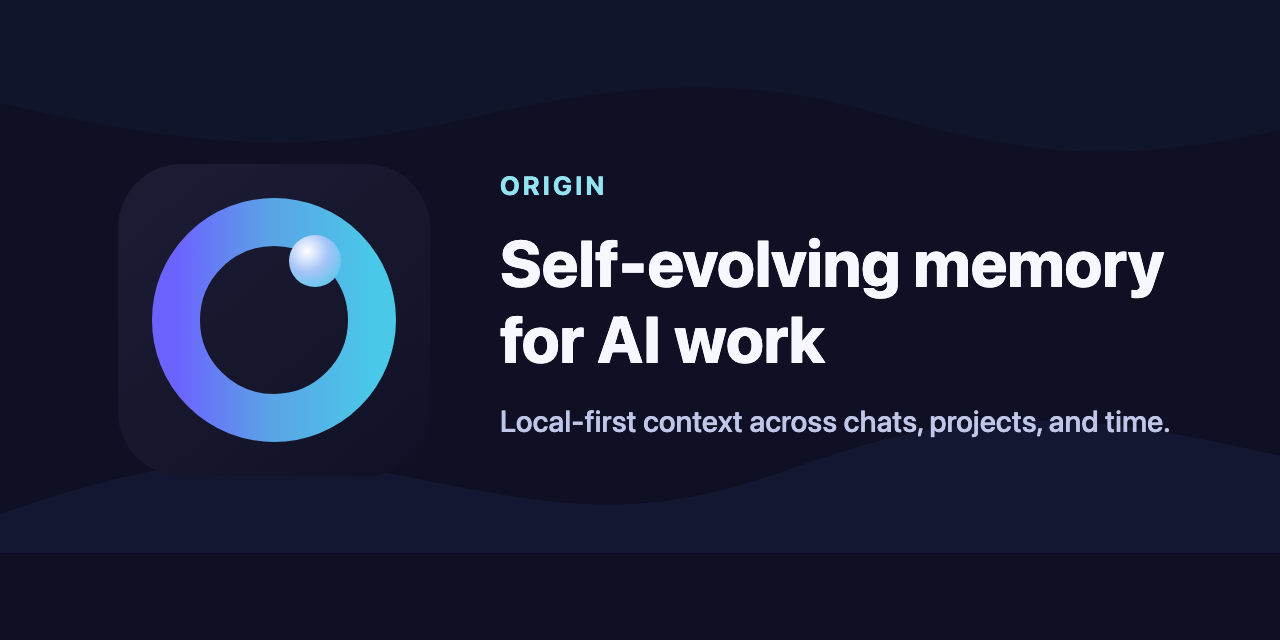
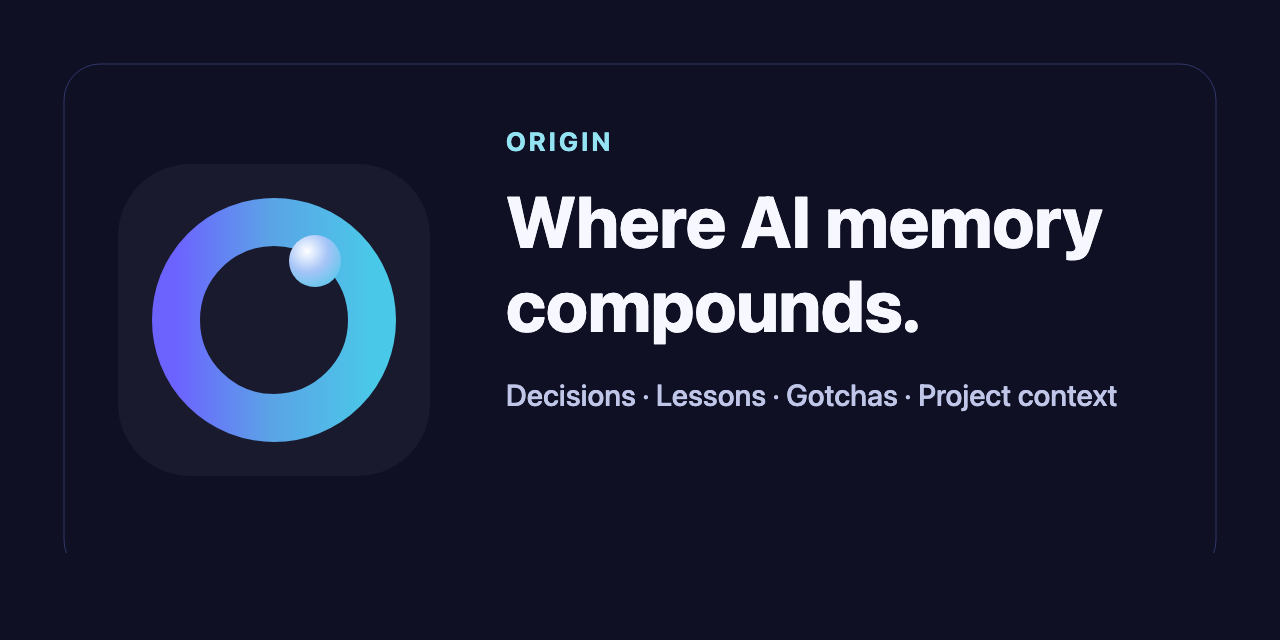
docs: refine README preview framing

Changed region(s): [[0.375, 0.1875, 0.9062, 0.5625], [0.375, 0.5938, 0.9062, 0.6875]]

diff --git a/README.md b/README.md
@@ -1,4 +1,6 @@
-![Origin social preview](docs/assets/social-preview.png)
+<p align="center">
+  <img src="./docs/assets/social-preview.png" alt="Origin: Where AI memory compounds." width="100%">
+</p>
 
 [![CI](https://github.com/7xuanlu/origin/actions/workflows/ci.yml/badge.svg)](https://github.com/7xuanlu/origin/actions/workflows/ci.yml)
 [![Release](https://img.shields.io/github/v/release/7xuanlu/origin)](https://github.com/7xuanlu/origin/releases/latest)
@@ -14,11 +16,11 @@
 
 </details>
 
-[Origin](https://useorigin.app) runs quietly behind the AI tools you already use. It gives your AI a place to carry decisions, lessons, gotchas, and project context instead of rediscovering them in every new chat.
+Local-first memory that carries decisions, lessons, gotchas, and project context across chats, projects, and time.
 
 The daemon does the memory chores in the background: deduplicating, linking related ideas, distilling pages, and keeping provenance attached.
 
-Use optional desktop app to search, inspect, edit, and delete what Origin learned.
+Use the optional desktop app to search, inspect, edit, and delete what Origin learned.
 
 **Status:** Early preview for macOS Apple Silicon. Expect fast iteration and some sharp edges.
 